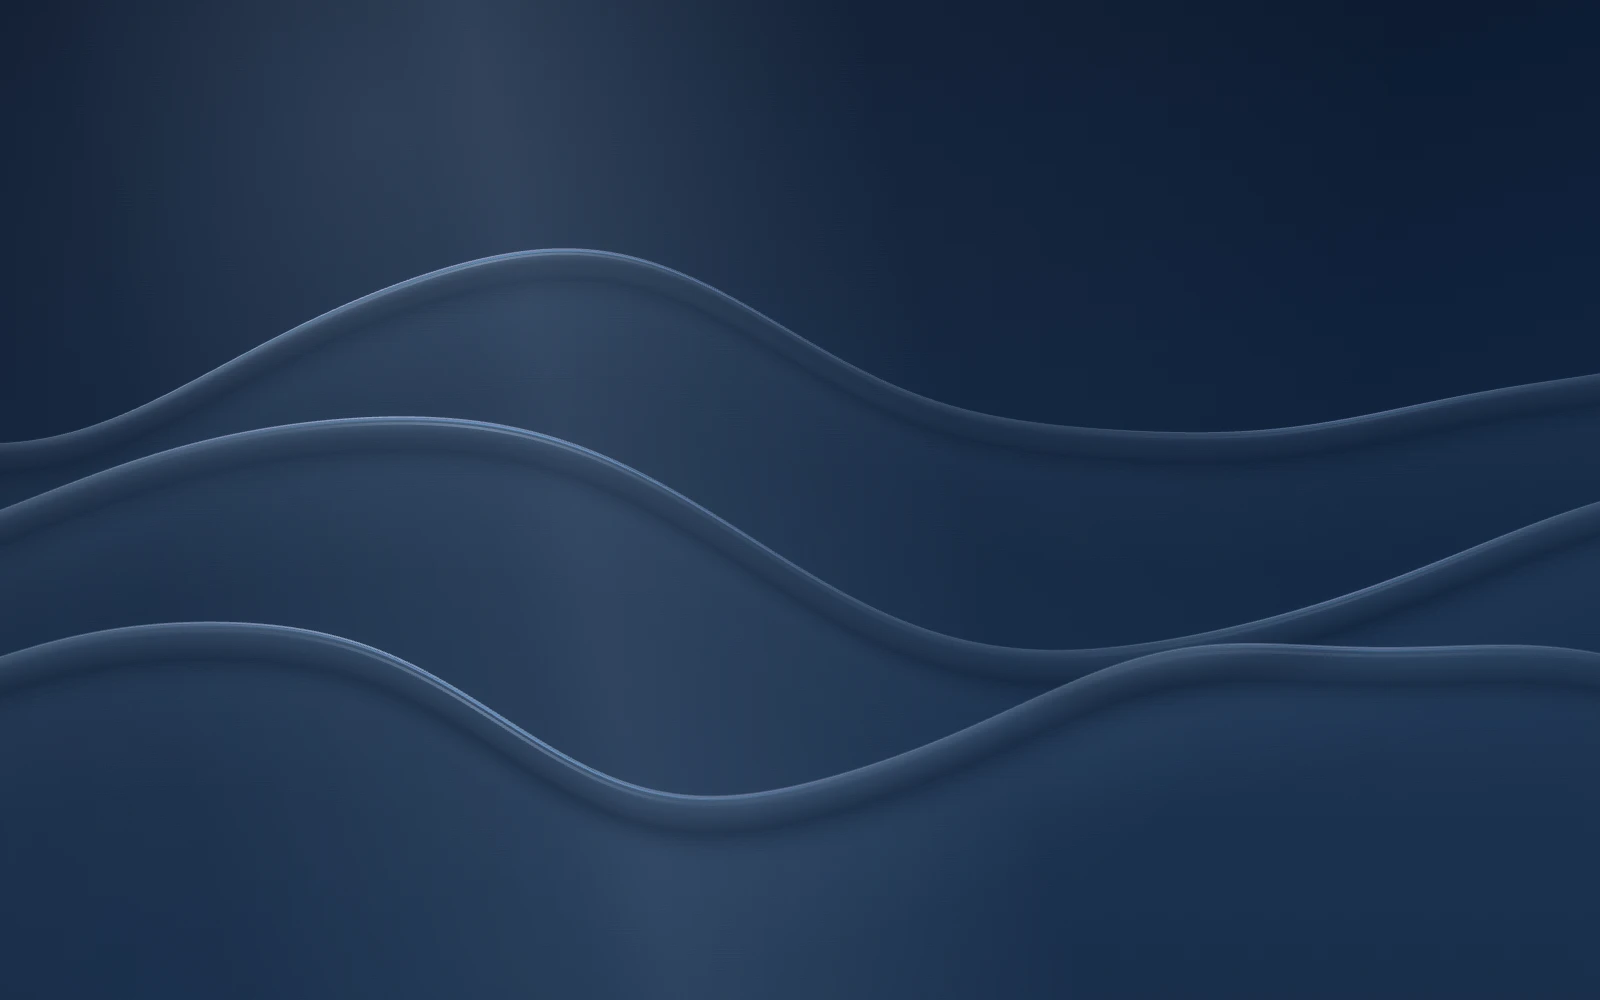
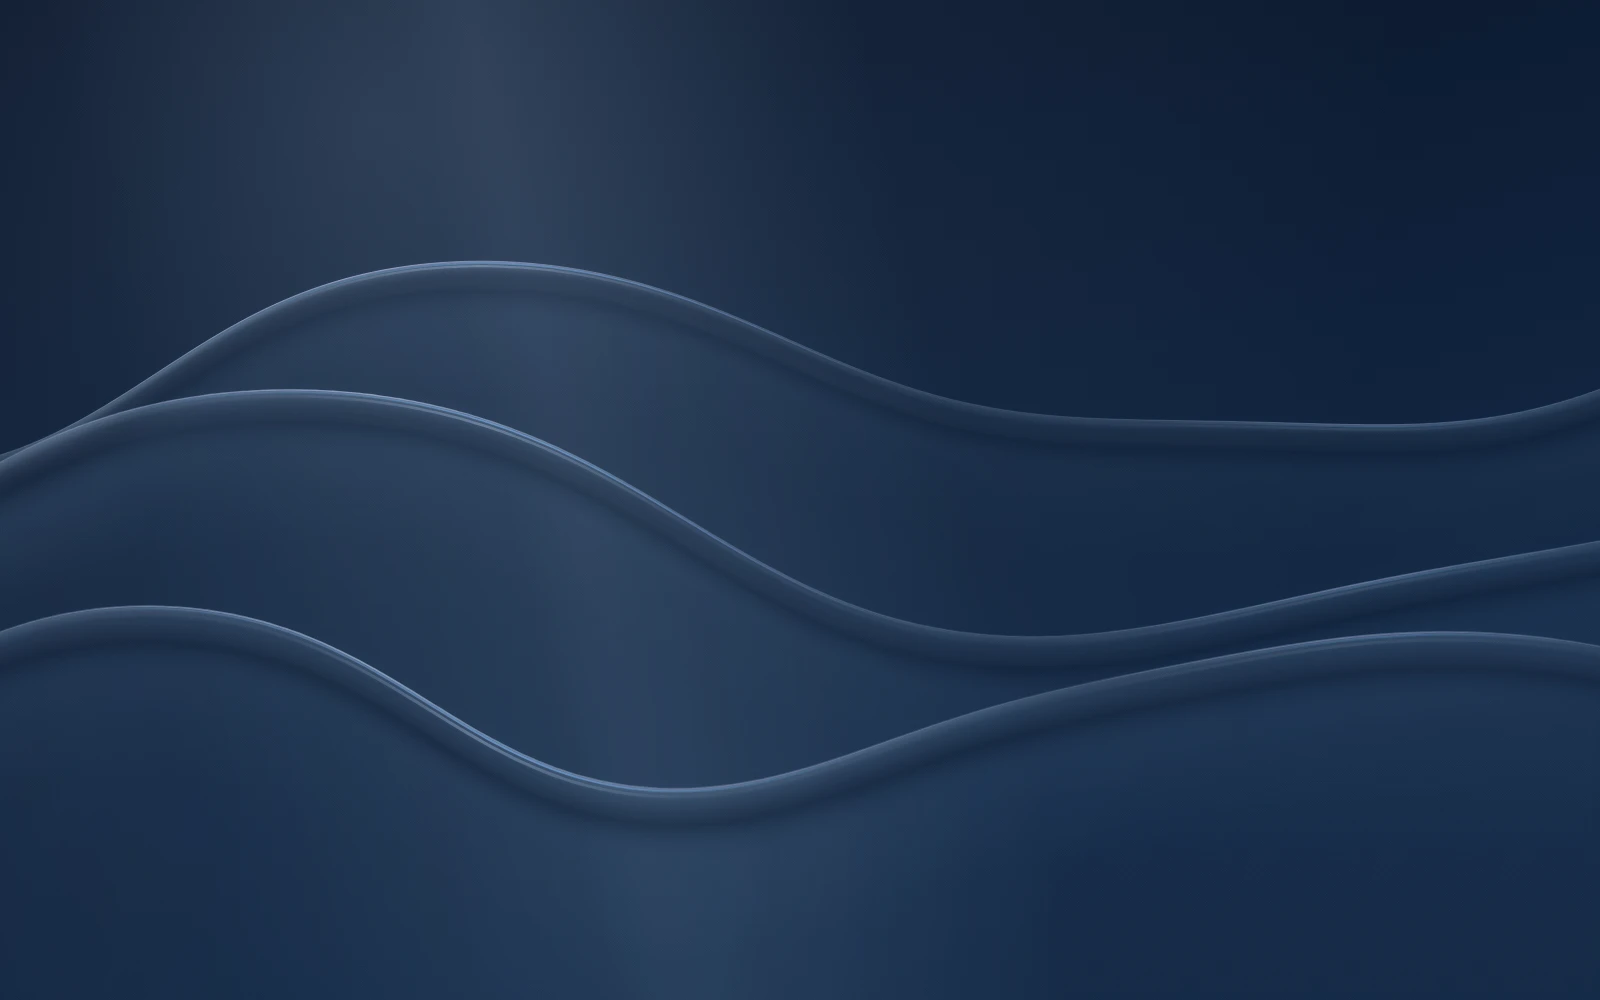
feat: liquid acrylic flow for the wave hero
- Dispersive travelling components (phase speed ~ sqrt k), viscous k^-2.5 damping
- Slow standing slosh term; soft surface-tension rounding of crests and troughs
- Pointer lean follows the first sloshing mode; per-layer under-damped springs
  (deeper layers heavier and more viscous), gentle stirring on movement
- Re-export fallback posters for the new profile

diff --git a/lab/wave-scene.js b/lab/wave-scene.js
@@ -17,6 +17,18 @@ function settle(value, velocity, target, dt) {
   const decay = Math.exp(-omega * dt);
   return [target + (offset + impulse) * decay, (velocity - omega * impulse) * decay];
 }
+// Liquid response: each layer sloshes on its own under-damped spring. Deeper layers are
+// heavier (lower ω) and a little more viscous (higher ζ), so they lag and settle later.
+// ζ ≈ .6 gives one soft overshoot (~8%) and no visible ringing.
+const sloshing = [{ omega: 4.6, zeta: .6 }, { omega: 3.85, zeta: .66 }, { omega: 3.2, zeta: .72 }];
+function slosh(value, velocity, target, omega, zeta, dt) {
+  const steps = Math.max(1, Math.ceil(dt * 240)), h = dt / steps;
+  for (let i = 0; i < steps; i++) {
+    velocity += (-omega * omega * (value - target) - 2 * zeta * omega * velocity) * h;
+    value += velocity * h;
+  }
+  return [value, velocity];
+}
 const palette = {
   sky: [[238, 233, 223], [8, 19, 38]],
   floor: [[183, 195, 198], [19, 40, 68]],
@@ -75,7 +87,8 @@ export function createAcrylicPainter(canvas) {
     ctx.imageSmoothingEnabled = softCtx.imageSmoothingEnabled = true;
   }
 
-  function paint(time = 0, night = 0, tilt = 0, spread = 0, lift = 0) {
+  // layers: optional per-layer { tilt, lift, stir } from the scene; posters omit it.
+  function paint(time = 0, night = 0, tilt = 0, spread = 0, lift = 0, layers = null) {
     // Build each palette prefix once per frame; hundreds of colour strings are made per paint.
     if (night !== prefixNight) {
       prefixNight = night;
@@ -124,19 +137,37 @@ export function createAcrylicPainter(canvas) {
       const index = count === 2 ? layer * 2 : layer;
       const base = height * (.36 + index * .17) + (index - 1) * spread * height * .018;
       const wave = waves[index];
-      const phase = wave.phase + time * wave.speed;
+      const own = layers?.[index];
+      const layerTilt = own ? own.tilt : tilt, layerLift = own ? own.lift : lift, stir = own ? own.stir : 0;
+      // A viscous liquid surface: components travel with dispersion (phase speed ∝ √k, so
+      // longer swells lead and shorter ripples drift), and short wavelengths are damped
+      // much harder (amplitude ∝ k^-2.5). A slow standing term adds the sloshing of a
+      // contained volume. Fixed phases survive resize and theme changes.
+      const k = wave.frequency * TAU, w = wave.speed;
+      const p0 = wave.phase + time * w;
+      const p1 = wave.phase * .7 + time * w * 1.272;   // √1.618
+      const p2 = wave.phase * 1.6 + time * w * 1.618;  // √2.618
+      const standing = .16 * Math.sin(time * wave.breath * .55 + index * 1.7);
+      // Stirring by the pointer briefly lifts the swell, then the liquid calms.
+      const a = amplitude * wave.amplitude * 1.12
+        * (1 + .045 * Math.sin(time * wave.breath + index * 2.1) + .08 * stir);
+      const lean = height * (.145 + index * .04);
       const points = [];
-      // Fixed phases survive resize and theme changes. Gentle harmonics follow the reference.
       const span = Math.max(width, 760);
       for (let x = -24; x <= width + 24; x += 6) {
-        const u = (x + tilt * (20 + index * 15)) / span;
-        const a = amplitude * wave.amplitude * (1 + .045 * Math.sin(time * wave.breath + index * 2.1));
-        let y = base + Math.cos(u * TAU * wave.frequency + phase) * a;
-        y += Math.sin(u * TAU * wave.frequency * 1.77 + wave.phase * .7 + time * wave.speed * .63) * a * .28;
-        y += Math.sin(u * TAU * wave.frequency * 3.33 + wave.phase * 1.6 - time * wave.speed * .41) * a * .055;
-        // Stronger, depth-dependent lean; independent profiles still cross freely.
-        y += (x / width - .5) * tilt * height * (.145 + index * .04);
-        y += lift * height * (.012 + index * .013);
+        const u = (x + layerTilt * (20 + index * 15)) / span;
+        let d = Math.cos(u * k + p0)
+          + .3 * Math.cos(u * k * 1.618 + p1)
+          + .045 * Math.cos(u * k * 2.618 + p2)
+          + standing * Math.cos(u * k * .5 + wave.phase * 1.3);
+        // Surface tension rounds the tallest crests and troughs instead of letting
+        // aligned components form a point.
+        d /= Math.sqrt(1 + d * d * .18);
+        let y = base + d * a;
+        // The lean follows the first sloshing mode of a tank (half sine), not a rigid
+        // ramp: the middle carries the motion, the edges stay rounded.
+        y += .5 * Math.sin(Math.PI * (x / width - .5)) * layerTilt * lean;
+        y += layerLift * height * (.012 + index * .013);
         points.push({ x, y });
       }
       const edge = new Path2D();
@@ -293,9 +324,10 @@ export function createWaveScene(canvas, stage, { dark = false, paused = false, o
   const life = new AbortController();
   const listener = { signal: life.signal, passive: true };
   const canMove = () => !paused && visible && !document.hidden;
+  const layers = sloshing.map(spring => ({ ...spring, tilt: 0, tiltVelocity: 0, lift: 0, liftVelocity: 0, stir: 0 }));
   function draw() {
     const start = performance.now();
-    painter.paint(time, night, tilt, spread, lift);
+    painter.paint(time, night, tilt, spread, lift, layers);
     const cost = performance.now() - start;
     renderAverage = renderAverage ? mix(renderAverage, cost, .05) : cost;
     // Diagnostics are written a few times per second, not every frame, to avoid DOM churn.
@@ -311,6 +343,8 @@ export function createWaveScene(canvas, stage, { dark = false, paused = false, o
   const settled = () => night === targetNight
     && Math.abs(tilt - targetTilt) < .002 && Math.abs(tiltVelocity) < .01
     && Math.abs(lift - targetLift) < .002 && Math.abs(liftVelocity) < .01
+    && layers.every(l => Math.abs(l.tilt - targetTilt) < .002 && Math.abs(l.tiltVelocity) < .01
+      && Math.abs(l.lift - targetLift) < .002 && Math.abs(l.liftVelocity) < .01 && l.stir < .01)
     && Math.abs(clamp(-stage.getBoundingClientRect().top / height, 0, 1) - spread) < .001;
   function resize() {
     if (disposed) return;
@@ -336,6 +370,12 @@ export function createWaveScene(canvas, stage, { dark = false, paused = false, o
       time += dt;
       [tilt, tiltVelocity] = settle(tilt, tiltVelocity, targetTilt, dt);
       [lift, liftVelocity] = settle(lift, liftVelocity, targetLift, dt);
+      const calm = 1 - Math.exp(-dt * 2.5);
+      for (const layer of layers) {
+        [layer.tilt, layer.tiltVelocity] = slosh(layer.tilt, layer.tiltVelocity, targetTilt, layer.omega, layer.zeta, dt);
+        [layer.lift, layer.liftVelocity] = slosh(layer.lift, layer.liftVelocity, targetLift, layer.omega, layer.zeta, dt);
+        layer.stir += (Math.min(1, Math.abs(layer.tiltVelocity) * .5 + Math.abs(layer.liftVelocity) * .3) - layer.stir) * calm;
+      }
       const scroll = clamp(-stage.getBoundingClientRect().top / height, 0, 1);
       spread += (scroll - spread) * blend;
     }

diff --git a/docs/discovery/lab-frosted-acrylic-implementation.md b/docs/discovery/lab-frosted-acrylic-implementation.md
@@ -97,3 +97,11 @@ node scripts/check-lab.cjs --update-posters
 ```
 
 默认使用 Playwright Chromium；可通过 `BROWSER_EXECUTABLE` 指定已安装的 Chromium 浏览器，通过 `PLAYWRIGHT_MODULE` 指向已有 Playwright 包。`LAB_BASE_URL` 默认 `http://127.0.0.1:8001`，`LAB_QA_OUTPUT` 默认系统临时目录下 `lab-qa`。普通检查不会修改正式资源，只有 `--update-posters` 写入 `lab/assets/`。
+
+## 液态流动模型（2026-10-03）
+
+- 每层表面由三个行进分量与一个驻波分量组成：相速度按 √k 色散（长波领先、短波缓行），振幅按 k^-2.5 衰减，短波纹被黏性压低，轮廓更圆润。
+- 表面张力近似：位移经 `d / √(1 + 0.18 d²)` 软压缩，分量相位重合时波峰与波谷保持圆钝，不形成尖点。
+- 指针倾斜改为容器第一阶晃动模态（半正弦），中段承载位移，两端保持圆润。
+- 每层独立的欠阻尼弹簧（ζ 0.60/0.66/0.72，ω 4.6/3.85/3.2）：深层更重、更黏，滞后并晚于上层回稳，约 8% 的单次柔和回弹。移动指针会轻微“搅动”振幅，随后平息。
+- 全局 `tilt`/`lift`（光照与诊断）保持临界阻尼，`check-lab.cjs` 的倾斜阈值不受影响。poster 已按新模型重新导出。
